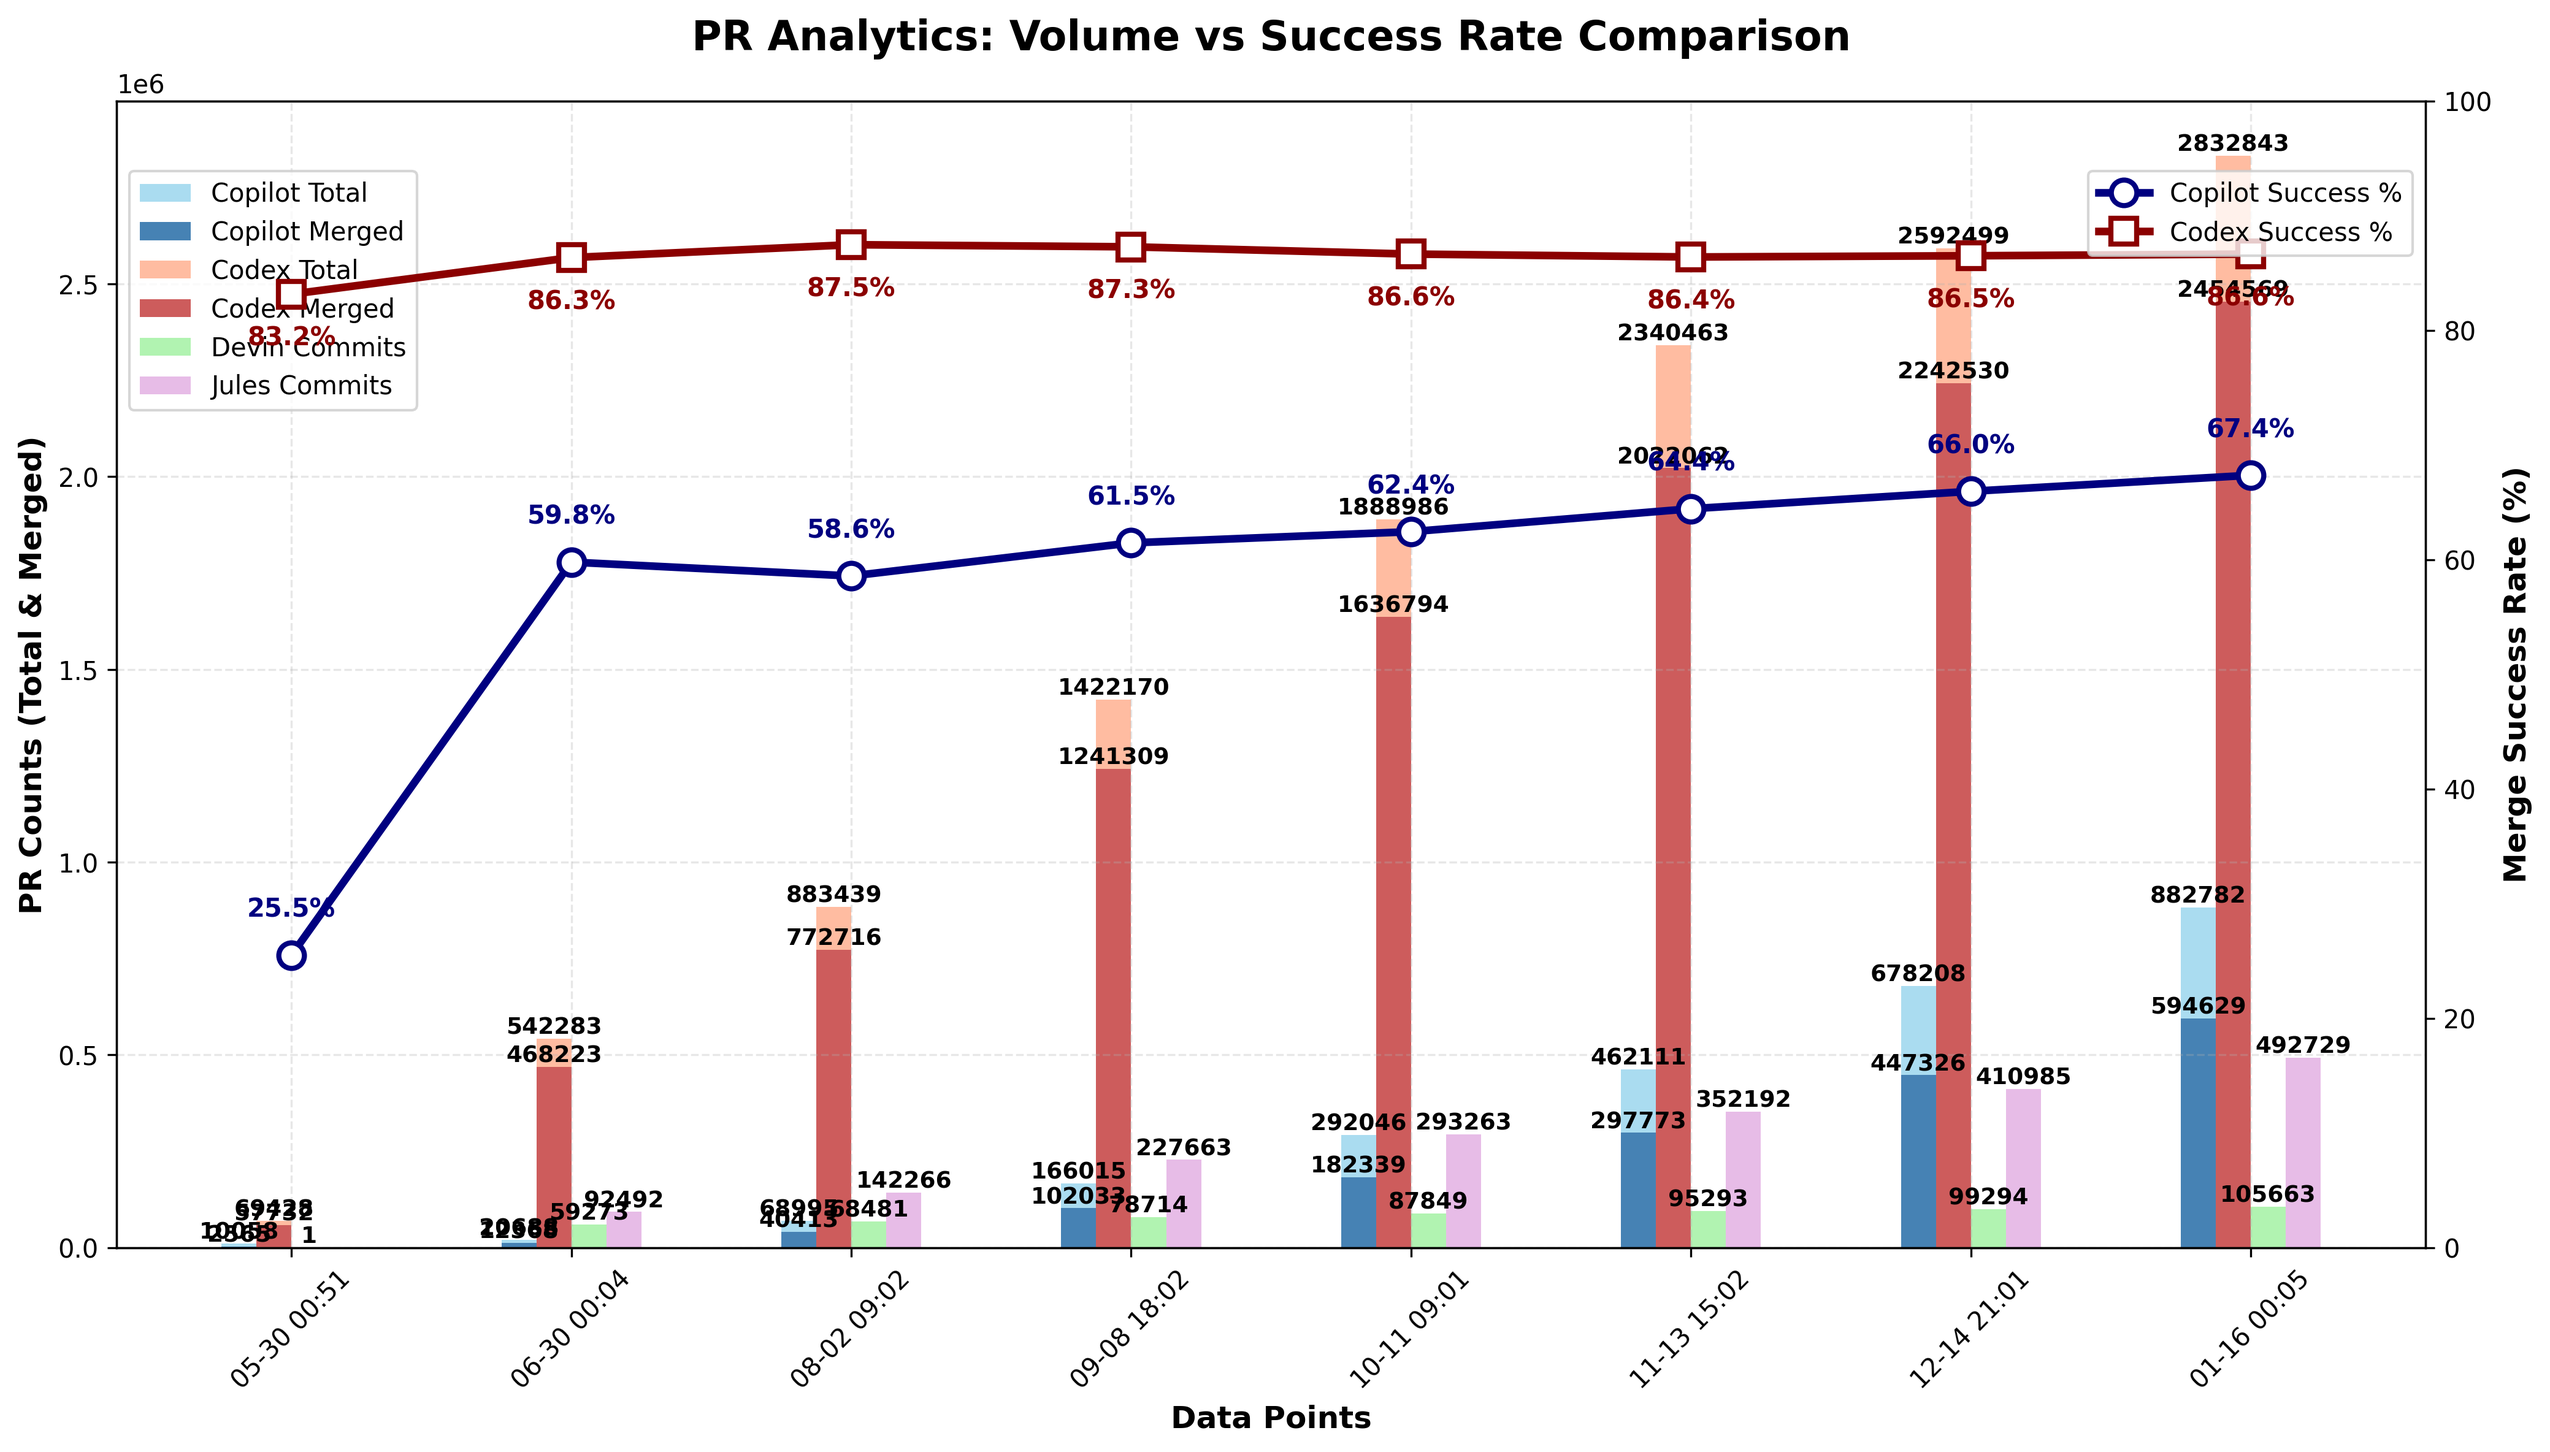
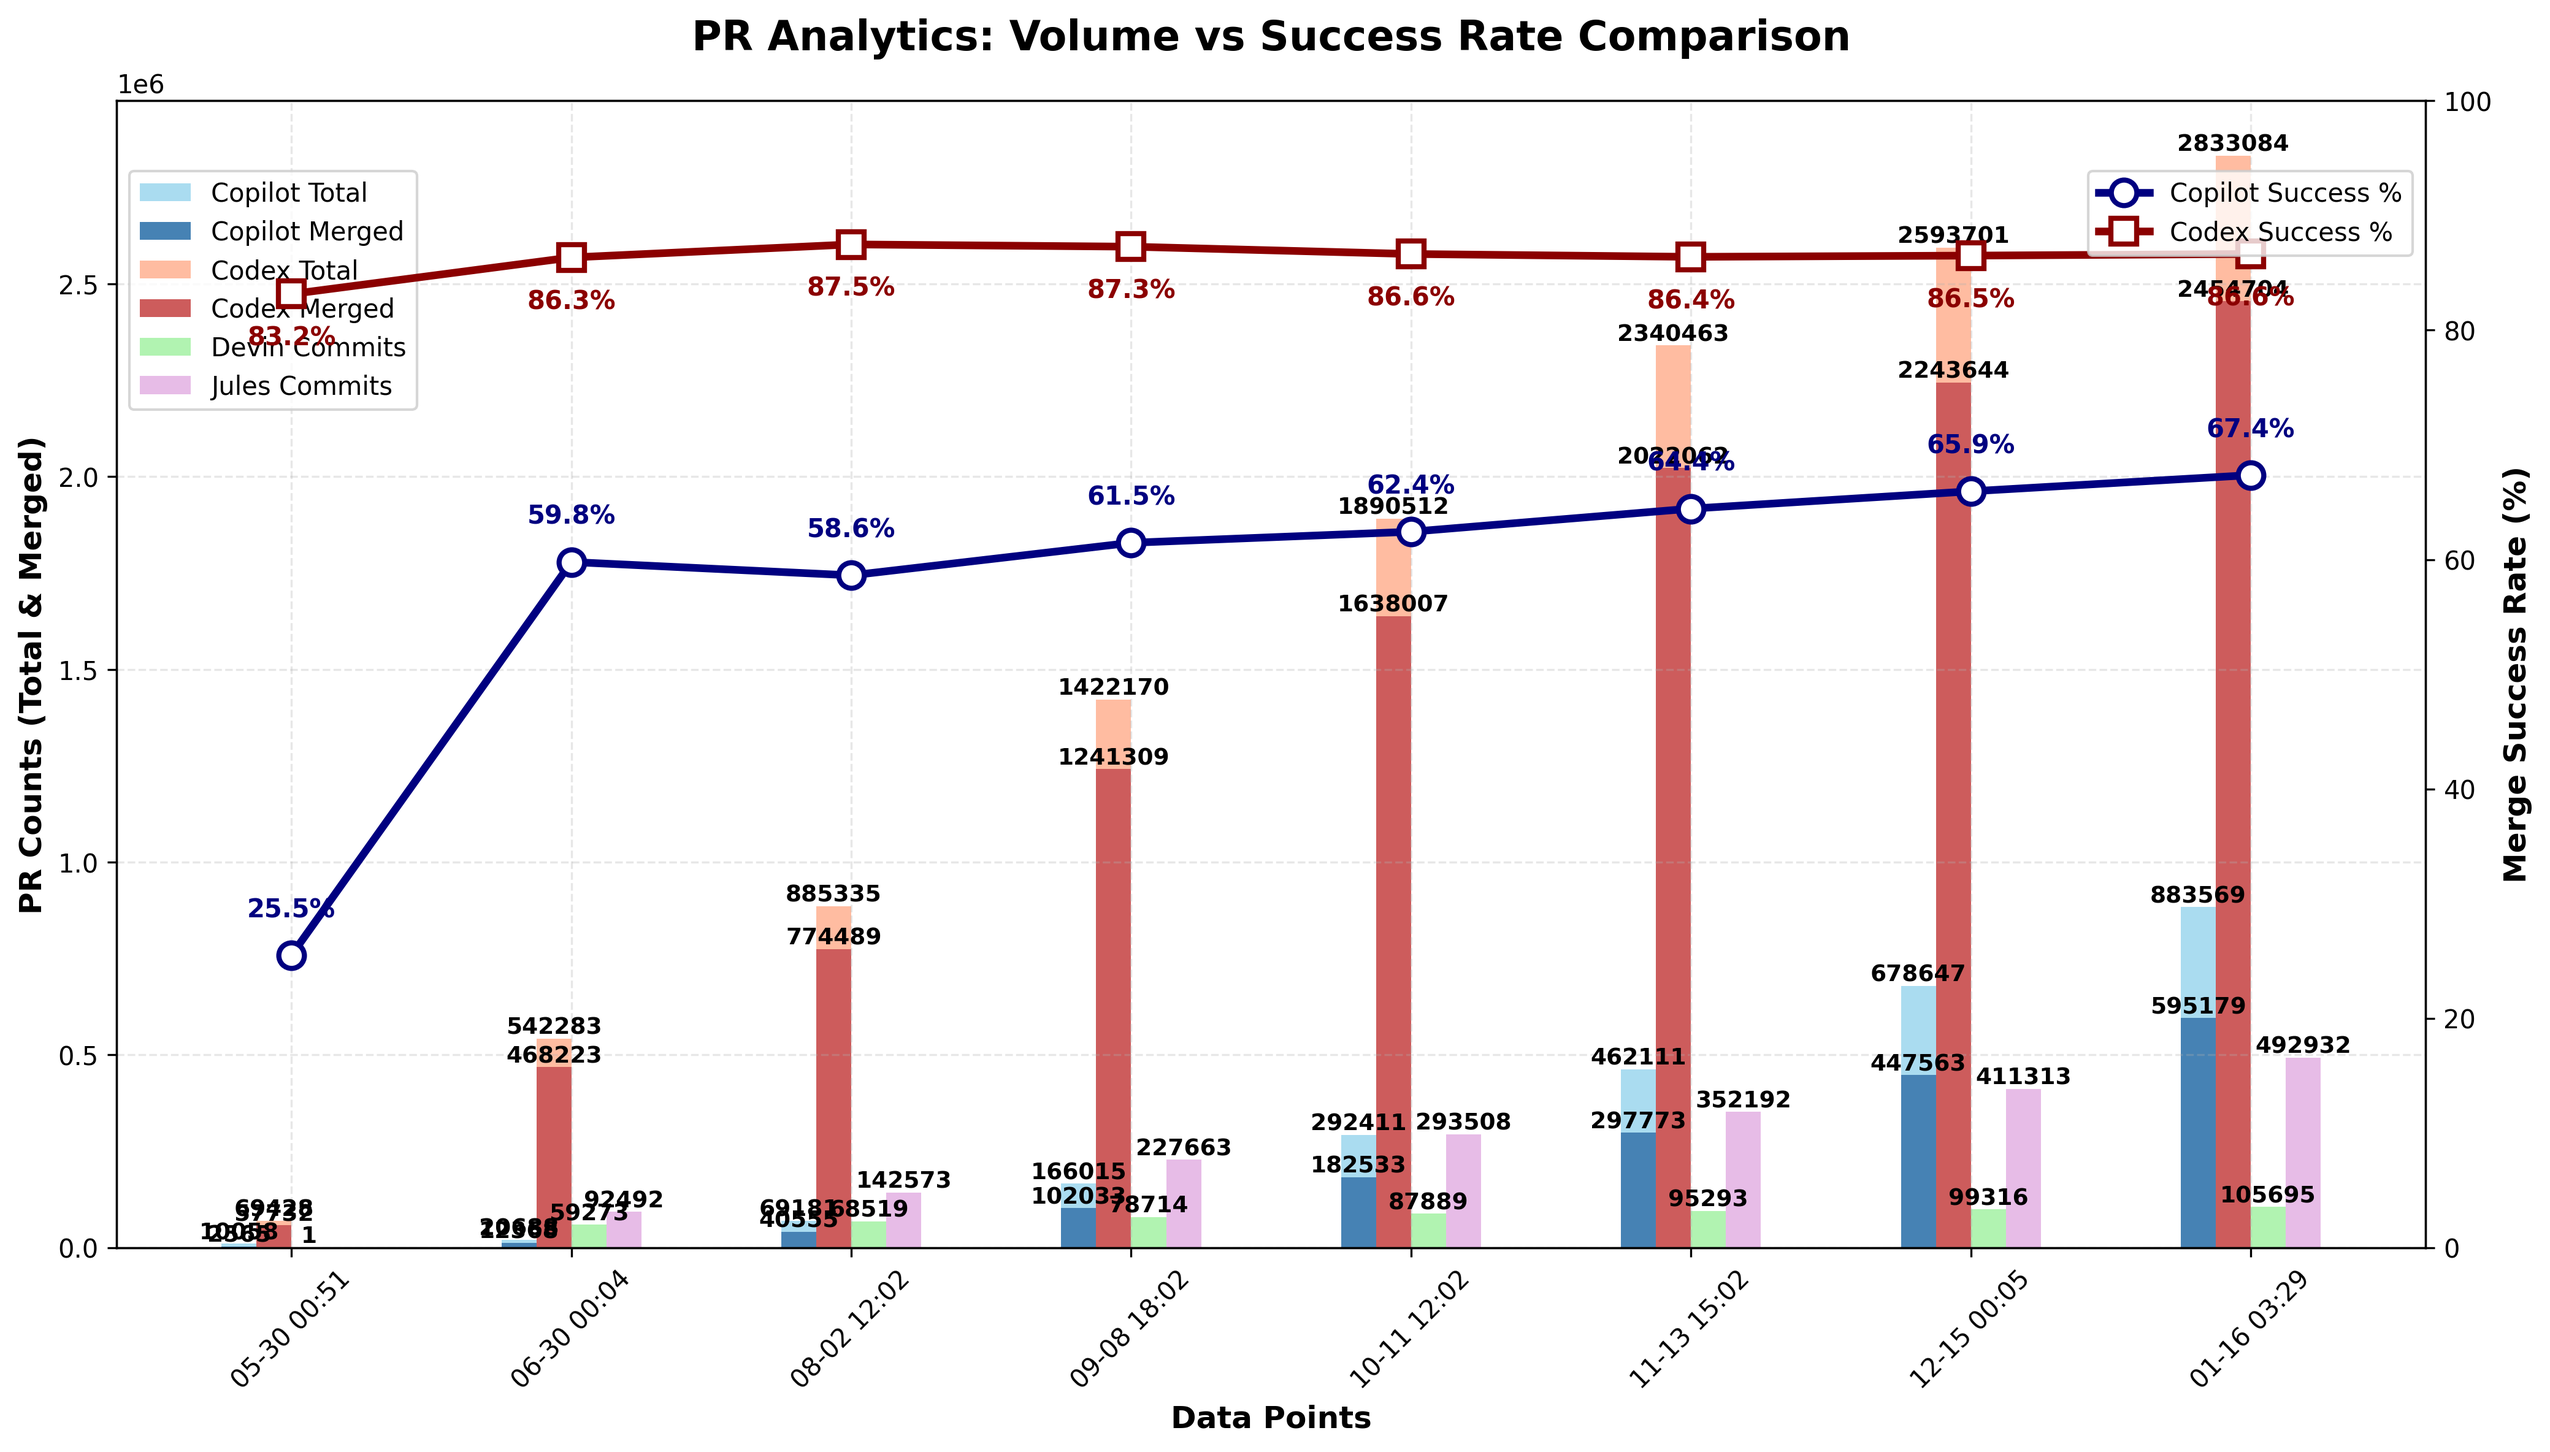
chore: update PR‑approval chart

diff --git a/docs/index.html b/docs/index.html
@@ -1780,6 +1780,7 @@
                         <td>N/A</td>
                         <td>N/A</td>
                         <td>N/A</td>
+                        <td>N/A</td>
                     </tr>
                     <tr>
                         <td>Codex</td>
@@ -3518,27 +3519,28 @@
                         <td>N/A</td>
                         <td>N/A</td>
                         <td>N/A</td>
+                        <td>N/A</td>
                     </tr>
                 <tr>
                         <td>Devin</td>
                         <td>N/A</td>
                         <td>N/A</td>
                         <td>N/A</td>
-                        <td>105,663</td>
+                        <td>105,695</td>
                     </tr>
                     <tr>
                         <td>Jules</td>
                         <td>N/A</td>
                         <td>N/A</td>
                         <td>N/A</td>
-                        <td>492,729</td>
+                        <td>492,932</td>
                     </tr>
                     </tbody>
             </table>
         </section>
 
         <footer>
-            <p>Last updated: <span id="last-updated">January 16, 2026 00:05 UTC</span></p>
+            <p>Last updated: <span id="last-updated">January 16, 2026 03:29 UTC</span></p>
             <p><a href="https://github.com/aavetis/ai-pr-watcher">View on GitHub</a></p>
         </footer>
     </div>

diff --git a/README.md b/README.md
@@ -19,7 +19,7 @@ Explore the GitHub search queries used:
 
 | Service | Total PRs | Merged PRs | Merge Rate | Total Commits |
 | ------- | --------- | ---------- | ---------- | ------------- |
-| Copilot | 882,782 | 594,629 | 67.36% | N/A           |
-| Codex   | 2,832,843 | 2,454,569 | 86.65% | N/A           |
-| Devin   | N/A       | N/A        | N/A        | 105,663 |
-| Jules   | N/A       | N/A        | N/A        | 492,729 |
+| Copilot | 883,569 | 595,179 | 67.36% | N/A           |
+| Codex   | 2,833,084 | 2,454,704 | 86.64% | N/A           |
+| Devin   | N/A       | N/A        | N/A        | 105,695 |
+| Jules   | N/A       | N/A        | N/A        | 492,932 |
